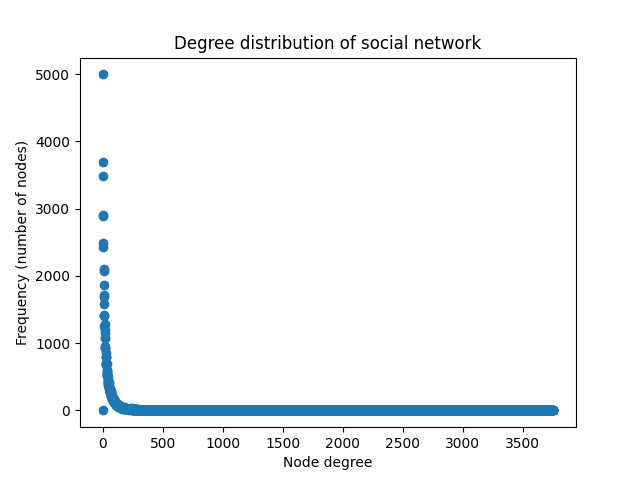
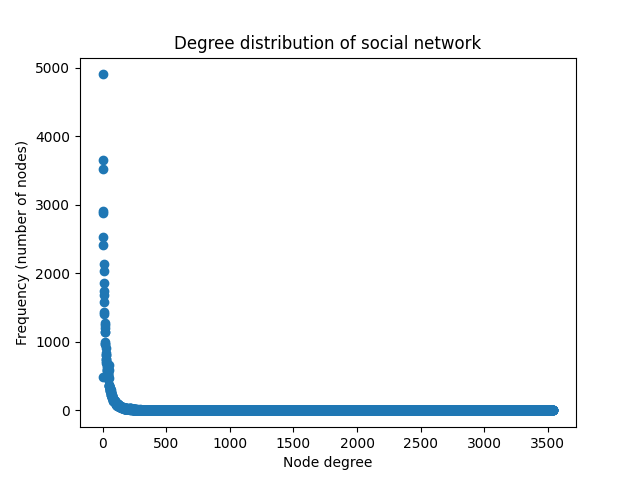
Smart attack added

diff --git a/runner.py b/runner.py
@@ -16,11 +16,12 @@ class Runner:
     def __init__(self, args):
         self.args = args
         self.name = self.args.network
+        self.p = self.args.p
 
         self.network = generate_network(self.name)
 
-        self.attack = Attack(self.network, self.args.nnode)
-        self.defense = Defense(self.network, self.args.nnode)
+        self.attack = Attack(self.network, self.args.n_edge)
+        self.defense = Defense(self.network, self.args.n_edge)
 
         self.metric = Robustness_metric(self.network)
 
@@ -32,6 +33,9 @@ class Runner:
 
     def run(self):
 
+        print('Initiating experiment on {}'.format(self.name))
+        print('Network information \n', nx.info(self.network))
+
         molly_reed = []
         for i in range(self.args.niter):
 
@@ -40,16 +44,15 @@ class Runner:
                 self.network = self.defense.random_defense()
 
             elif self.args.algorithm == 'smart':
-                self.network = self.attack.smart_attack()
+                self.network = self.attack.smart_attack(self.p)
                 self.network = self.defense.smart_defense()
 
-            if self.args.criterion == "molly_reed":
-                val = self.metric.molly_reed()
+            val = self.metric.molly_reed()
+            molly_reed.append(val)
 
             if i % 100 == 0:
+                plot_mr_robustness(molly_reed, self.results_dir, self.name)
                 degree_dist(self.network, self.results_dir, self.name, i)
-
-            molly_reed.append(val)
 
         plot_mr_robustness(molly_reed, self.results_dir, self.name)
         degree_dist(self.network, self.results_dir, self.name, i)

diff --git a/utils/misc.py b/utils/misc.py
@@ -13,12 +13,13 @@ def get_args():
     parser = argparse.ArgumentParser("Experiment Hyperparamters")
     parser.add_argument("--network", type=str, default='social network', help="network name",
                         choices=['social network', 'p2p network', 'email network', 'as network'])
-    parser.add_argument("--algorithm", type=str, default='random', help="algorithm name",
+    parser.add_argument("--algorithm", type=str, default='smart', help="algorithm name",
                         choices=['random', 'smart'])
     parser.add_argument("--criterion", type=str, default='molly_reed', help="robustness metric",
                         choices=['molly_reed'])
-    parser.add_argument("--niter", type=int, default=200, help="number of steps in experiment")
-    parser.add_argument("--nnode", type=int, default=1000, help="number of nodes chosen to remove edges")
+    parser.add_argument("--niter", type=float, default=1000, help="number of steps in experiment")
+    parser.add_argument("--n_edge", type=float, default=100, help="number of randomly selected edges")
+    parser.add_argument("--p", type=float, default=0.01, help="probability of selection in smart algorithm")
 
     return parser.parse_args()
 

diff --git a/algorithm/attack.py b/algorithm/attack.py
@@ -1,3 +1,4 @@
+import numpy as np
 import random
 import networkx as nx
 
@@ -10,6 +11,8 @@ class Attack():
 
     def random_attack(self):
 
+        # Random attack selects n edges at random and removes them from the network
+
         edges = list(self.G.edges())
 
         if not edges:
@@ -21,5 +24,21 @@ class Attack():
             return self.G
 
 
-    def smart_attack(self):
+    def smart_attack(self, p):
+
+        # Smart attack follows this processs
+        # 1. Select the top p% of nodes with the highest degree
+        # 2. Randomly sample a set of edges from each of the selected node
+
+        degree = sorted(self.G.degree, key=lambda x: x[1], reverse=True)
+        node_select = degree[:(int(len(degree) * p))]
+
+        for node in node_select:
+
+            edge = list(self.G.edges(node[0]))
+            random_edge = random.sample(edge, int(len(edge) * p))
+
+            for i in random_edge:
+                self.G.remove_edge(i[0], i[1])
+
         return self.G

diff --git a/README.md b/README.md
@@ -9,6 +9,10 @@ Project Description:
 - This is Python implementation for Network Destroy-Repair Game.
 
 Hyperparamters:
+- Network: there are four available networks, including social network, p2p network, autonomous system network and email networks.
+- Algorithm: attack and defense algorithms can be random or smart
+- Number of iterations (niter): number of time steps an experiment is expected to perform
+- Number of nodes (nnodes): number of edges that a random algorithm selects for removal
 
 ## Usage
 
